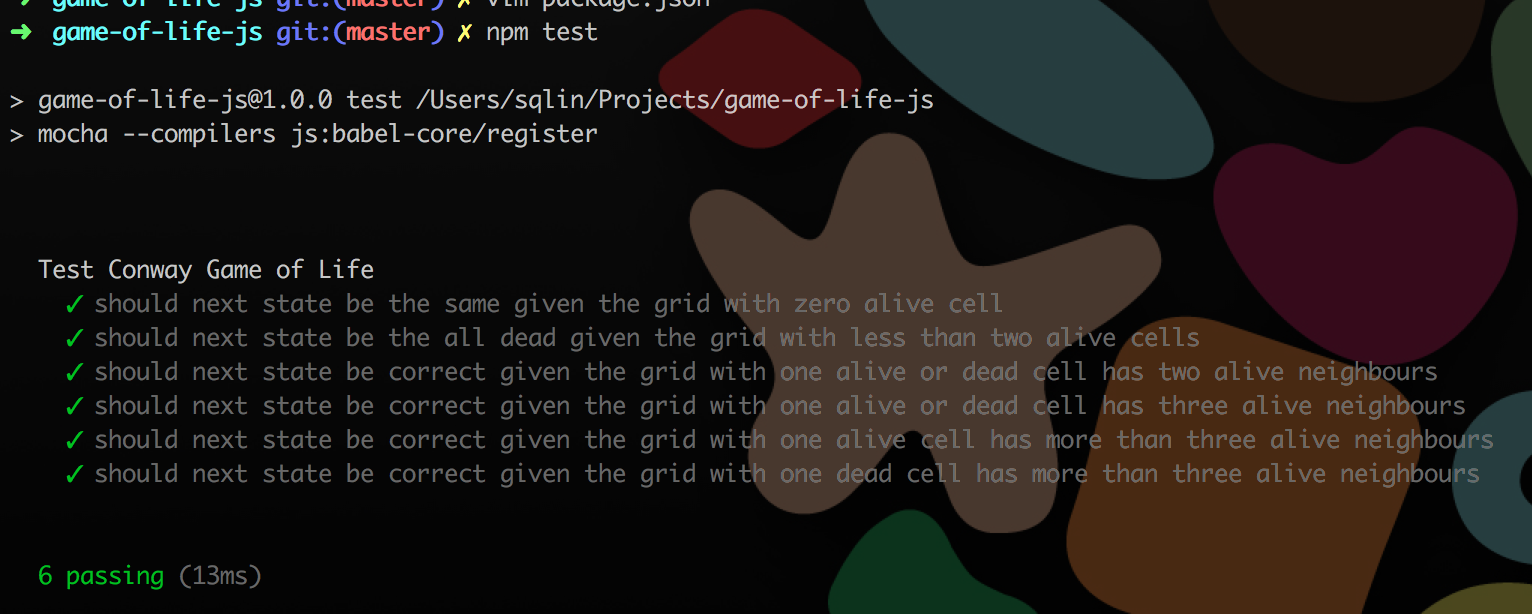
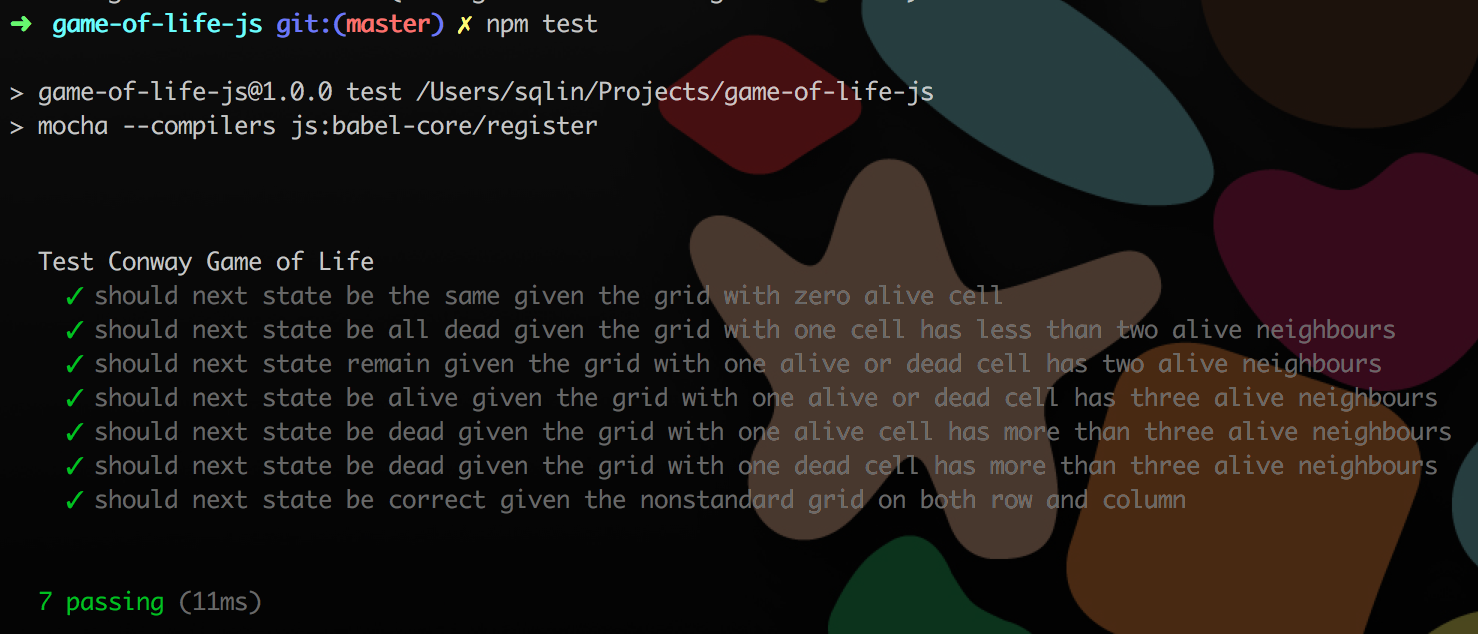
update the test and add one more scenario

diff --git a/test/conway.spec.js b/test/conway.spec.js
@@ -12,29 +12,23 @@ describe('Test Conway Game of Life', () => {
         assertNextGeneration(gotoNextGeneration(current), current);
     });
 
-    it('should next state be the all dead given the grid with less than two alive cells', () => {
-        let current1 = [
-            [0, 0, 0],
-            [0, 1, 0],
-            [0, 0, 0]
-        ];
-        let current2 = [
-            [0, 1, 0],
-            [0, 1, 0],
-            [0, 0, 0]
-        ];
-        let expectNext = [
-            [0, 0, 0],
-            [0, 0, 0],
-            [0, 0, 0]
+    it('should next state be all dead given the grid with one cell has less than two alive neighbours', () => {
+        let current = [
+            [1, 0, 0, 0],
+            [1, 0, 0, 0],
+            [0, 0, 0, 1]
         ];
 
-        [current1, current2].forEach((current) => {
-            assertNextGeneration(gotoNextGeneration(current), expectNext);
-        });
+        let expectNext = [
+            [0, 0, 0, 0],
+            [0, 0, 0, 0],
+            [0, 0, 0, 0]
+        ];
+
+        assertNextGeneration(gotoNextGeneration(current), expectNext);
     });
 
-    it('should next state be correct given the grid with one alive or dead cell has two alive neighbours', () => {
+    it('should next state remain given the grid with one alive or dead cell has two alive neighbours', () => {
         let current = [
             [1, 0, 0],
             [0, 1, 0],
@@ -49,7 +43,7 @@ describe('Test Conway Game of Life', () => {
         assertNextGeneration(gotoNextGeneration(current), expectNext);
     });
 
-    it('should next state be correct given the grid with one alive or dead cell has three alive neighbours', () => {
+    it('should next state be alive given the grid with one alive or dead cell has three alive neighbours', () => {
         let current = [
             [0, 1, 0],
             [0, 1, 1],
@@ -64,7 +58,7 @@ describe('Test Conway Game of Life', () => {
         assertNextGeneration(gotoNextGeneration(current), expectNext);
     });
 
-    it('should next state be correct given the grid with one alive cell has more than three alive neighbours', () => {
+    it('should next state be dead given the grid with one alive cell has more than three alive neighbours', () => {
         let current = [
             [0, 1, 0],
             [1, 1, 1],
@@ -79,7 +73,7 @@ describe('Test Conway Game of Life', () => {
         assertNextGeneration(gotoNextGeneration(current), expectNext);
     });
 
-    it('should next state be correct given the grid with one dead cell has more than three alive neighbours', () => {
+    it('should next state be dead given the grid with one dead cell has more than three alive neighbours', () => {
         let current = [
             [0, 1, 0],
             [1, 0, 1],
@@ -89,6 +83,22 @@ describe('Test Conway Game of Life', () => {
             [0, 1, 0],
             [1, 0, 1],
             [0, 1, 0]
+        ];
+
+        assertNextGeneration(gotoNextGeneration(current), expectNext);
+    });
+
+    it('should next state be correct given the nonstandard grid on both row and column', () => {
+        let current = [
+            [1, 0, 0, 1],
+            [1, 0, 0],
+            [0, 1]
+        ];
+
+        let expectNext = [
+            [0, 0, 0, 0],
+            [1, 1, 0],
+            [0, 0]
         ];
 
         assertNextGeneration(gotoNextGeneration(current), expectNext);

diff --git a/README.md b/README.md
@@ -1,5 +1,7 @@
 ## Get Started
 
+Just practice TDD, Refactor, Shortcut and ES6-FP. Please refer to the each baby step if you are interested.
+
 ```
 npm install  # install dependencies
 
